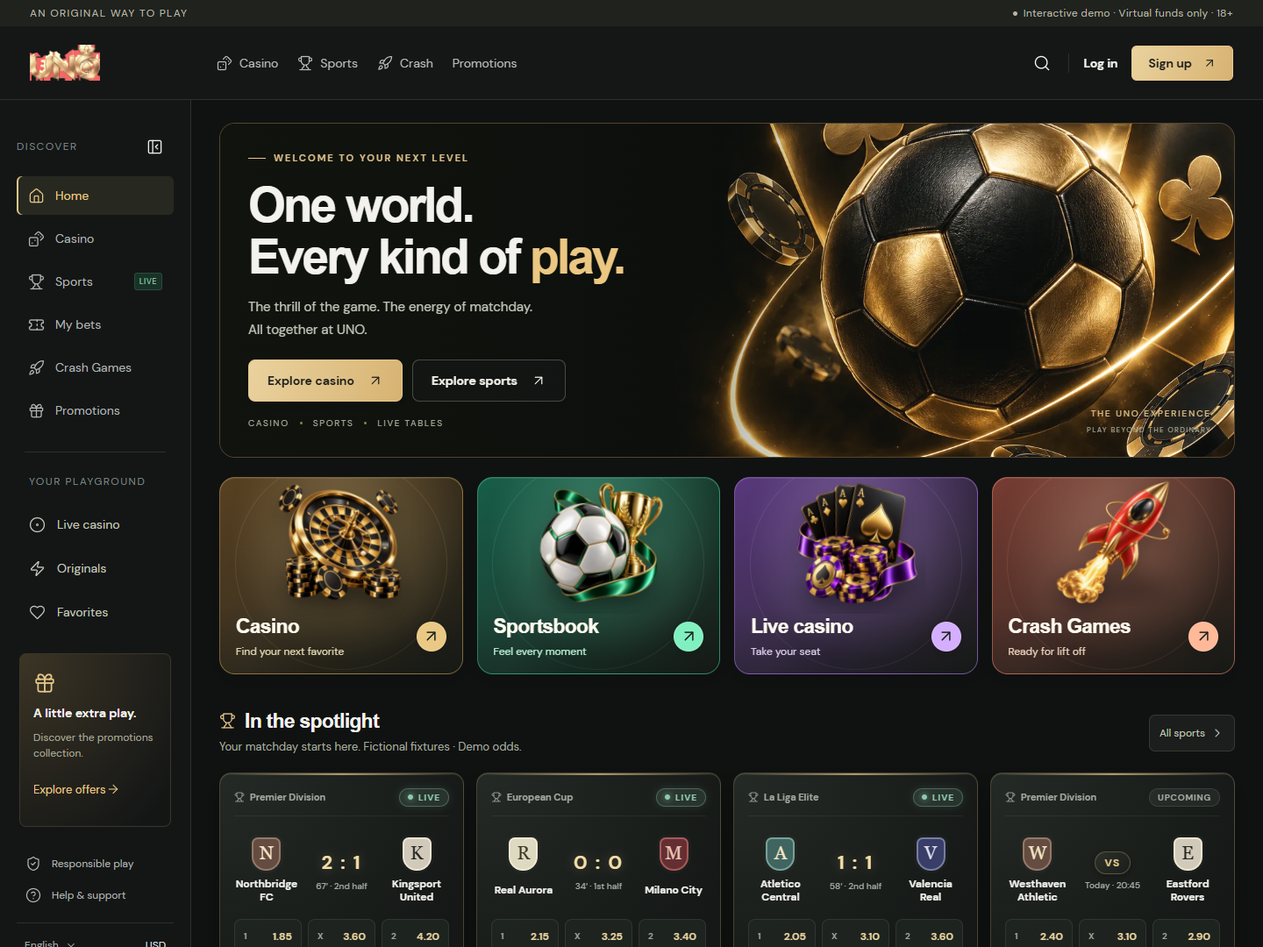
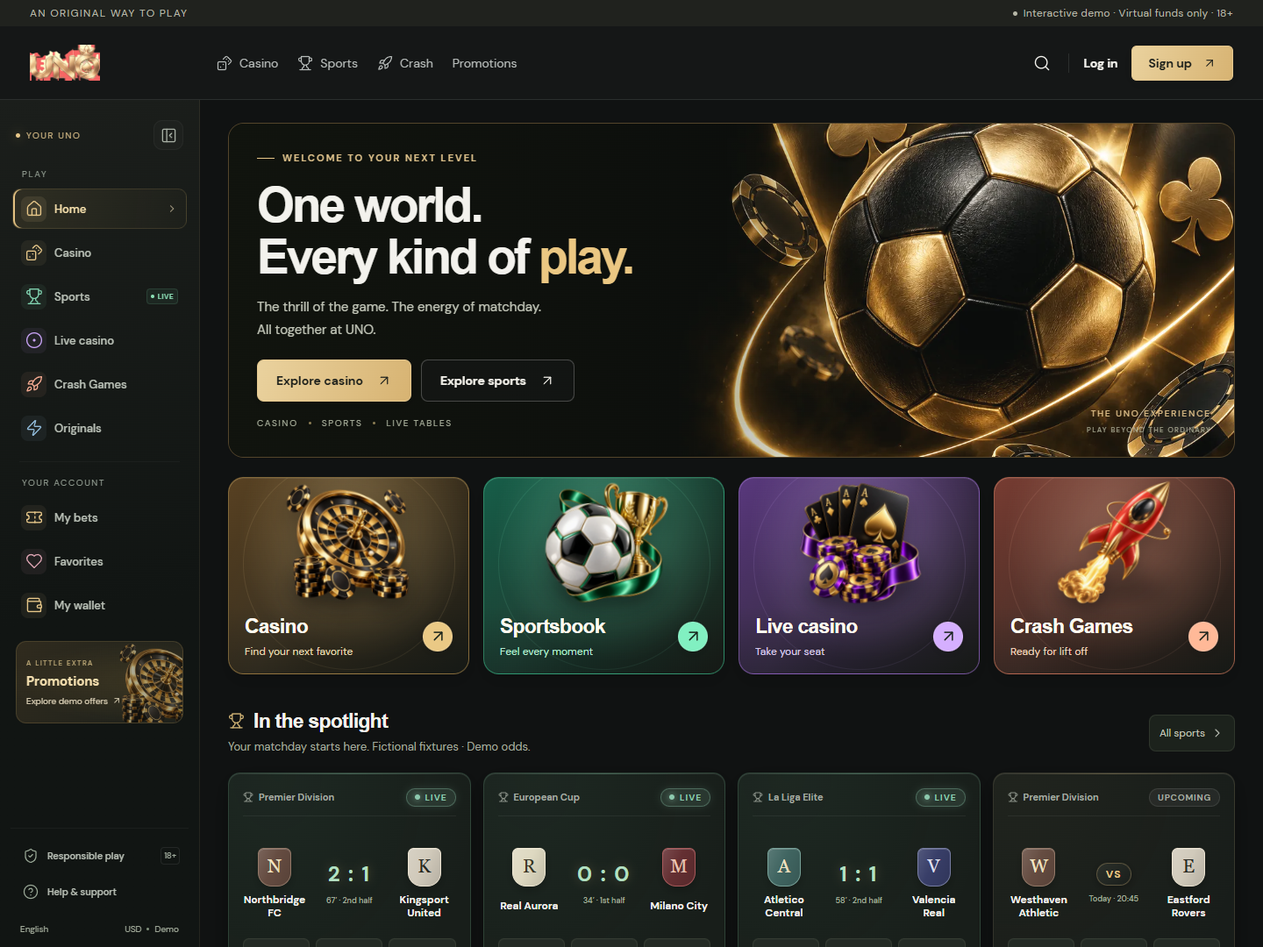
Polish sidebar navigation and curate homepage games and promotions

diff --git a/src/App.tsx b/src/App.tsx
@@ -1,4 +1,5 @@
 import { useEffect, useRef, useState, type ReactNode } from 'react';
+import { Sidebar, HomePromotions } from './Sidebar';
 import { HeroExperience, CategoryEntrances } from './HomeExperience';
 import { CrashCollection, Promotions, DemoAccount, DemoDeposit, crashGames } from './PlatformExtras';
 import { NavLink, Link, Route, Routes, useLocation, useNavigate } from 'react-router-dom';
@@ -32,22 +33,23 @@ export default function App(){
  useEffect(()=>{
  if(!menu)return;
  const previous=document.body.style.overflow;document.body.style.overflow='hidden';
+ const positionMenu=()=>document.documentElement.style.setProperty('--menu-top',`${document.querySelector('.topbar')?.getBoundingClientRect().bottom||72}px`);positionMenu();window.addEventListener('resize',positionMenu);
  const trigger=document.querySelector<HTMLButtonElement>('.mobile-menu');
  const items=()=>[trigger,...document.querySelectorAll<HTMLElement>('#uno-sidebar a, #uno-sidebar button')].filter((e):e is HTMLElement=>!!e&&e.getClientRects().length>0);
  items()[1]?.focus();
  const close=(e:KeyboardEvent)=>{if(e.key==='Escape'){setMenu(false);trigger?.focus();}if(e.key==='Tab'){const list=items();const i=list.indexOf(document.activeElement as HTMLElement);if(e.shiftKey&&i<=0){e.preventDefault();list.at(-1)?.focus();}else if(!e.shiftKey&&(i===list.length-1||i<0)){e.preventDefault();list[0]?.focus();}}};
- window.addEventListener('keydown',close);return()=>{document.body.style.overflow=previous;window.removeEventListener('keydown',close);if(document.activeElement?.closest('#uno-sidebar'))trigger?.focus();};
+ window.addEventListener('keydown',close);return()=>{document.body.style.overflow=previous;window.removeEventListener('resize',positionMenu);window.removeEventListener('keydown',close);if(document.activeElement?.closest('#uno-sidebar'))trigger?.focus();};
  },[menu]);
  const cardProps={favorite,openGame,favorites:state.favorites};
  return <><a className="skip-link" href="#main-content">Skip to content</a><div className="demo-strip"><span>AN ORIGINAL WAY TO PLAY</span><span><span className="tiny-dot"/> Interactive demo · Virtual funds only · 18+</span></div>
  <header className="topbar"><div className="brand-area" style={{display:'flex',alignItems:'center',justifyContent:'center'}}><button className="icon-button mobile-menu" aria-label={menu?"Close menu":"Open menu"} aria-expanded={menu} aria-controls="uno-sidebar" onClick={()=>setMenu(!menu)}><Menu/></button><Link to="/" aria-label="Home" style={{display:'flex',alignItems:'center',flexDirection:'row',justifyContent:'space-around'}}><img src="/uno-logo.webp" alt="UNO" style={{height:'46px',width:'auto',objectFit:'contain',mixBlendMode:'screen'}}/></Link></div><nav className="top-nav" aria-label="Primary"><NavLink to="/casino"><Dices size={18}/> Casino</NavLink><NavLink to="/sports"><Trophy size={18}/> Sports</NavLink><NavLink to="/crash"><Rocket size={18}/> Crash</NavLink><NavLink to="/promotions">Promotions</NavLink></nav><div className="top-actions"><button className="icon-button" aria-label="Search games and matches" onClick={()=>setSearchOpen(true)}><Search size={20}/></button><span className="header-divider"/>{loggedIn?<><button className="header-wallet" aria-label={`Open demo wallet, balance ${money(state.balance)}`} onClick={()=>setAccount(true)}><span className="coin-icon">₮</span><span><small>DEMO USD</small><strong>{money(state.balance)}</strong></span><ChevronDown size={14}/></button><button className="gold-button header-deposit" onClick={()=>setDeposit(true)}><ArrowDownLeft size={17}/> Deposit</button><button className="avatar header-avatar" aria-label="Open demo account" onClick={()=>setAccount(true)}>U</button></>:<><button className="login" onClick={()=>setAccount(true)}>Log in</button><button className="gold-button signup" onClick={()=>setAccount(true)}>Sign up <ArrowUpRight size={16}/></button></>}</div></header>
- {menu&&<button className="menu-scrim" aria-label="Close navigation" onClick={()=>setMenu(false)}/>}<div className={`app-shell ${collapsed?'sidebar-collapsed':''}`}><aside id="uno-sidebar" className={`sidebar ${menu?'menu-open':''}`}><div className="sidebar-heading"><span className="sidebar-label">DISCOVER</span><button className="icon-button sidebar-toggle" aria-label={collapsed?'Expand sidebar':'Collapse sidebar'} aria-expanded={!collapsed} aria-controls="sidebar-links" onClick={()=>setCollapsed(!collapsed)}>{collapsed?<PanelLeftOpen size={19}/>:<PanelLeftClose size={19}/>}</button></div><nav id="sidebar-links" aria-label="Sidebar">{[...navItems,{to:'/crash',label:'Crash Games',icon:Rocket},{to:'/promotions',label:'Promotions',icon:Gift}].map(({to,label,icon:Icon})=><NavLink key={to} to={to} end title={label}><Icon size={19}/><span className="nav-label">{label}</span>{to==='/sports'&&<span className="live-pill">LIVE</span>}{to==='/bets'&&state.bets.length>0&&<span className="count">{state.bets.length}</span>}</NavLink>)}</nav><div className="sidebar-separator"/><div className="sidebar-label">YOUR PLAYGROUND</div><Link className="sidebar-extra" title="Live casino" to="/casino?category=Live%20casino"><CircleDot size={19}/><span className="nav-label">Live casino</span></Link><Link className="sidebar-extra" title="Originals" to="/casino?category=Originals"><Zap size={19}/><span className="nav-label">Originals</span></Link><Link className="sidebar-extra" title="Favorites" to="/casino?favorites=true"><Heart size={19}/><span className="nav-label">Favorites</span>{state.favorites.length>0&&<span className="count">{state.favorites.length}</span>}</Link><div className="sidebar-promo"><Gift size={26}/><strong>A little extra play.</strong><p>Discover the promotions collection.</p><Link to="/promotions">Explore offers <ArrowRight size={16}/></Link></div><div className="sidebar-bottom"><button title="Responsible play" onClick={()=>setInfo('responsible')}><ShieldCheck size={18}/><span className="nav-label">Responsible play</span></button><button title="Help and support" onClick={()=>setInfo('help')}><CircleHelp size={18}/><span className="nav-label">Help & support</span></button><div className="locale">English <ChevronDown size={14}/><span>USD</span></div></div></aside>
+ {menu&&<button className="menu-scrim" aria-label="Close navigation" onClick={()=>setMenu(false)}/>}<div className={`app-shell ${collapsed?'sidebar-collapsed':''}`}><Sidebar collapsed={collapsed} menu={menu} toggle={()=>setCollapsed(!collapsed)} bets={state.bets.length} favorites={state.favorites.length} account={()=>setAccount(true)} info={setInfo}/>
  <main id="main-content"><Routes>
  <Route path="/" element={<><HeroExperience/><CategoryEntrances/><SectionHeading icon={<Trophy/>} title="In the spotlight" subtitle="Your matchday starts here. Fictional fixtures · Demo odds." link="/sports" linkText="All sports"/><div className="match-grid spotlight-grid restored-matches">{fixtures.slice(0,4).map(f=><MatchCard key={f.id} fixture={f} selections={selections} choose={choose} isSpotlight/>)}</div>
- <SectionHeading icon={<Flame/>} title="Popular right now" subtitle="A new favorite is one click away." link="/casino" linkText="All games"/><div className="game-grid home-games">{games.slice(0,16).map(g=><GameCard key={g.id} game={g} {...cardProps}/>)}</div>
- <SectionHeading icon={<CircleDot/>} title="Live casino" subtitle="Explore the live table collection. Demo previews only." link="/casino?category=Live%20casino" linkText="All live games"/><div className="game-grid">{liveGames.slice(0,16).map(g=><GameCard key={g.id} game={g} {...cardProps}/>)}</div>
+ <section className="lobby-collection"><SectionHeading icon={<Flame/>} title="Popular right now" subtitle="A new favorite is one click away." link="/casino" linkText="All games"/><div className="game-grid home-collection">{games.slice(0,8).map(g=><GameCard key={g.id} game={g} {...cardProps}/>)}</div></section><HomePromotions/>
+ <section className="lobby-collection"><SectionHeading icon={<CircleDot/>} title="Live casino" subtitle="Explore the live table collection. Demo previews only." link="/casino?category=Live%20casino" linkText="All live games"/><div className="game-grid home-collection">{liveGames.slice(0,8).map(g=><GameCard key={g.id} game={g} {...cardProps}/>)}</div></section>
  <SectionHeading icon={<Rocket/>} title="Crash Games" subtitle="Discover the next chapter of play. Demo previews only." link="/crash" linkText="All Crash Games"/><CrashCollection {...cardProps} compact/><LeaderboardTable/>
- <div className="lower-grid"><section className="live-feature"><div><span className="eyebrow">THE LIVE EXPERIENCE</span><h2>Your table.<br/>Your moment.</h2><p>Discover our live casino collection.</p><Link className="outline-button" to="/casino?category=Live%20casino">Take a look <ArrowUpRight size={16}/></Link></div><div className="roulette-art"/></section><section className="offer-feature" id="promotions"><Gift size={28}/><span className="eyebrow">A WARM WELCOME · DEMO OFFER</span><h2>Make your first<br/>moment golden.</h2><p>A little extra for your first chapter.</p><Link className="text-link" to="/promotions">All promotions <ArrowRight size={16}/></Link></section></div></>}/>
+</>}/>
  <Route path="/promotions" element={<Promotions/>}/><Route path="/crash" element={<CrashCollection {...cardProps}/>}/>
  <Route path="/casino" element={<Casino {...cardProps}/>}/>
  <Route path="/sports" element={<Sports selections={selections} choose={choose} slip={<BetSlip selections={selections} remove={id=>setSelections(s=>s.filter(x=>x.fixtureId!==id))} place={place} balance={state.balance}/>}/>}/>
@@ -150,7 +152,7 @@ function LeaderboardTable(){
 function SectionHeading({icon,title,subtitle,link,linkText}:{icon:ReactNode;title:string;subtitle:string;link:string;linkText:string}){return <div className="section-heading"><div><h2>{icon}{title}</h2><p>{subtitle}</p></div><Link to={link}>{linkText}<ChevronRight size={16}/></Link></div>}
 function Empty({title,text,action}:{title:string;text:string;action?:ReactNode}){return <div className="empty"><Search size={32}/><h2>{title}</h2><p>{text}</p>{action}</div>}
 function GameCard({game:g,favorites,favorite,openGame}:{game:Game;favorites:string[];favorite:(id:string)=>void;openGame:(g:Game)=>void}){return <article className="game-card"><button className="game-art" aria-label={`Preview ${g.name}`} onClick={()=>openGame(g)}><span className={`game-img${g.image?'':` tile-${g.tile}`}`} style={g.image?{backgroundImage:`url('${g.image}')`}:undefined}/>{g.tag&&<span className={`game-tag tag-${g.tag.toLowerCase()}`}>{g.tag==='HOT'&&<Flame size={11}/>} {g.tag}</span>}<span className="play-overlay"><span className="hover-title">{g.name}</span><span className="play-btn-circle"><Play size={18} fill="currentColor"/></span><span className="hover-provider">{g.provider}</span></span></button><button className={`favorite ${favorites.includes(g.id)?'is-favorite':''}`} aria-label={`${favorites.includes(g.id)?'Remove':'Add'} ${g.name} ${favorites.includes(g.id)?'from':'to'} favorites`} aria-pressed={favorites.includes(g.id)} onClick={()=>favorite(g.id)}><Heart size={15} fill={favorites.includes(g.id)?'currentColor':'none'}/></button><div className="game-meta"><h3>{g.name}</h3><span>{g.provider}</span></div></article>}
-function MatchCard({fixture:f,selections,choose,isSpotlight=false}:{fixture:Fixture;selections:Selection[];choose:(f:Fixture,i:number)=>void;isSpotlight?:boolean}){return <article className={`match-card ${isSpotlight?'spotlight-card':''}`}><div className="match-top"><span className="league-label"><Trophy size={12}/>{f.league}</span><span className={f.live?'live-text live-pill-badge':'muted upcoming-pill-badge'}>{f.live&&<span className="tiny-dot pulsing"/>}{f.live?'LIVE':'UPCOMING'}</span></div><div className="teams"><div><span className={`team-badge badge-${f.id}`}>{f.homeCode.slice(0,1)}</span><span className="team-name">{f.home}</span></div><div className="score">{isSpotlight&&f.live?<strong className="spotlight-score">{f.score}</strong>:isSpotlight&&!f.live?<span className="vs-badge">VS</span>:<strong>{f.score||'VS'}</strong>}<small>{f.time}</small></div><div><span className={`team-badge away badge-${f.id}`}>{f.awayCode.slice(0,1)}</span><span className="team-name">{f.away}</span></div></div><div className="odds-row">{f.odds.map((o,i)=>{const outcome=i===0?f.home:i===f.odds.length-1?f.away:'Draw';const selected=selections.some(s=>s.fixtureId===f.id&&s.outcome===outcome);return <button key={i} className={selected?'selected':''} aria-label={`${f.home} versus ${f.away}: ${outcome} at ${o.toFixed(2)}`} aria-pressed={selected} onClick={()=>choose(f,i)}><span>{i===0?'1':i===f.odds.length-1?'2':'X'}</span><strong>{o.toFixed(2)}</strong></button>;})}</div><span className="match-demo">Fictional fixture · Demo odds</span></article>}
+function MatchCard({fixture:f,selections,choose,isSpotlight=false}:{fixture:Fixture;selections:Selection[];choose:(f:Fixture,i:number)=>void;isSpotlight?:boolean}){return <article className={`match-card ${isSpotlight?'spotlight-card':''} ${f.live?'is-live':'is-upcoming'}`}><div className="match-top"><span className="league-label"><Trophy size={12}/>{f.league}</span><span className={f.live?'live-text live-pill-badge':'muted upcoming-pill-badge'}>{f.live&&<span className="tiny-dot pulsing"/>}{f.live?'LIVE':'UPCOMING'}</span></div><div className="teams"><div><span className={`team-badge badge-${f.id}`}>{f.homeCode.slice(0,1)}</span><span className="team-name">{f.home}</span></div><div className="score">{isSpotlight&&f.live?<strong className="spotlight-score">{f.score}</strong>:isSpotlight&&!f.live?<span className="vs-badge">VS</span>:<strong>{f.score||'VS'}</strong>}<small>{f.time}</small></div><div><span className={`team-badge away badge-${f.id}`}>{f.awayCode.slice(0,1)}</span><span className="team-name">{f.away}</span></div></div><div className="odds-row">{f.odds.map((o,i)=>{const outcome=i===0?f.home:i===f.odds.length-1?f.away:'Draw';const selected=selections.some(s=>s.fixtureId===f.id&&s.outcome===outcome);return <button key={i} className={selected?'selected':''} aria-label={`${f.home} versus ${f.away}: ${outcome} at ${o.toFixed(2)}`} aria-pressed={selected} onClick={()=>choose(f,i)}><span>{i===0?'1':i===f.odds.length-1?'2':'X'}</span><strong>{o.toFixed(2)}</strong></button>;})}</div><span className="match-demo">Fictional fixture · Demo odds</span></article>}
 function Casino(props:{favorites:string[];favorite:(id:string)=>void;openGame:(g:Game)=>void}){const location=useLocation();const params=new URLSearchParams(location.search);const [category,setCategory]=useState(params.get('category')||'All games');const [onlyFavorites,setOnlyFavorites]=useState(params.get('favorites')==='true');const [provider,setProvider]=useState('All providers');const [query,setQuery]=useState('');useEffect(()=>{setCategory(new URLSearchParams(location.search).get('category')||'All games');setOnlyFavorites(new URLSearchParams(location.search).get('favorites')==='true');},[location.search]);const visible=[...games,...liveGames,...crashGames].filter(g=>(category==='All games'||g.category===category)&&(provider==='All providers'||g.provider===provider)&&(!onlyFavorites||props.favorites.includes(g.id))&&g.name.toLowerCase().includes(query.toLowerCase()));return <><PageTitle eyebrow="FIND YOUR FAVORITE" title="The casino" description="Extraordinary worlds. Endless possibilities. Explore our fictional game collection."/><div className="casino-banner"><Sparkles/><div><h2>A world beyond the ordinary.</h2><p>Original games. Unmistakably UNO.</p></div><span>DEMO COLLECTION</span></div><div className="filter-bar"><label className="search-field"><Search size={18}/><input aria-label="Search casino games" placeholder="Search games" value={query} onChange={e=>setQuery(e.target.value)}/></label><label className="select-wrap"><SlidersHorizontal size={16}/><select aria-label="Game provider" value={provider} onChange={e=>setProvider(e.target.value)}>{['All providers','UNO Studios','Orbit Games','Ember Play'].map(p=><option key={p}>{p}</option>)}</select></label></div><div className="tabs">{['All games','Slots','Live casino','Originals','Crash'].map(c=><button key={c} className={category===c?'active':''} onClick={()=>setCategory(c)}>{c}</button>)}<button className={onlyFavorites?'active':''} aria-pressed={onlyFavorites} onClick={()=>setOnlyFavorites(!onlyFavorites)}><Heart size={16}/> Favorites</button></div><div className="results-label">{visible.length} games <span>Fictional titles · Demo previews</span></div>{visible.length?<div className="game-grid catalog">{visible.map(g=><GameCard key={g.id} game={g} {...props}/>)}</div>:<Empty title="No games in this corner yet." text="Try another search or reset your filters." action={<button className="outline-button" onClick={()=>{setQuery('');setCategory('All games');setProvider('All providers');setOnlyFavorites(false);}}>Reset filters</button>}/>}</>}
 function Sports({selections,choose,slip}:{selections:Selection[];choose:(f:Fixture,i:number)=>void;slip:ReactNode}){const loc=useLocation();const p=new URLSearchParams(loc.search);const [sport,setSport]=useState(p.get('sport')||'Football');const [tab,setTab]=useState(p.get('tab')||'Live');const [league,setLeague]=useState('All leagues');const [query,setQuery]=useState(p.get('query')||'');useEffect(()=>{const p=new URLSearchParams(loc.search);setSport(p.get('sport')||'Football');setTab(p.get('tab')||'Live');setQuery(p.get('query')||'');setLeague('All leagues');},[loc.search]);const visible=fixtures.filter(f=>f.sport===sport&&f.live===(tab==='Live')&&(league==='All leagues'||f.league===league)&&`${f.home} ${f.away}`.toLowerCase().includes(query.toLowerCase()));return <><PageTitle eyebrow="EVERY MOMENT MATTERS" title="The sportsbook" description="Get closer to the game. Explore fictional fixtures with virtual funds."/><div className="sport-picker">{['Football','Basketball','Tennis'].map((s,i)=><button className={sport===s?'active':''} key={s} onClick={()=>{setSport(s);setLeague('All leagues');setQuery('');}}><span>{['⚽','🏀','🎾'][i]}</span>{s}</button>)}</div><div className="sports-layout"><div><div className="sports-toolbar"><div className="tabs"><button className={tab==='Live'?'active':''} onClick={()=>setTab('Live')}><span className="tiny-dot"/> Live</button><button className={tab==='Upcoming'?'active':''} onClick={()=>setTab('Upcoming')}>Upcoming</button></div><select aria-label="League" value={league} onChange={e=>setLeague(e.target.value)}><option>All leagues</option>{[...new Set(fixtures.filter(f=>f.sport===sport).map(f=>f.league))].map(l=><option key={l}>{l}</option>)}</select></div><label className="search-field sports-search"><Search size={18}/><input aria-label="Search teams" placeholder="Search teams" value={query} onChange={e=>setQuery(e.target.value)}/></label><div className="sports-matches">{visible.map(f=><MatchCard key={f.id} fixture={f} selections={selections} choose={choose}/>)}</div>{!visible.length&&<Empty title="No matches found." text="Try Upcoming, another sport, or clear your filters." action={<button className="outline-button" onClick={()=>{setQuery('');setLeague('All leagues');setTab(tab==='Live'?'Upcoming':'Live');}}>Show {tab==='Live'?'upcoming':'live'} matches</button>}/>}</div><aside className="desktop-slip">{slip}</aside></div></>}
 function BetSlip({selections,remove,place,balance}:{selections:Selection[];remove:(id:string)=>void;place:(stake:number,mode:'single'|'accumulator')=>void;balance:number}){const [mode,setMode]=useState<'single'|'accumulator'>('single');const [stake,setStake]=useState('10');const [error,setError]=useState('');const totals=quote(selections,Number(stake),mode);return <section className="bet-slip"><div className="slip-heading"><h2><Ticket size={20}/> Bet slip</h2><span>{selections.length}</span></div>{!selections.length?<div className="slip-empty"><Ticket size={34}/><h3>Your next move.</h3><p>Select odds on a match to start your demo bet.</p><span>Virtual funds. Real possibilities.</span></div>:<><div className="tabs"><button className={mode==='single'?'active':''} onClick={()=>{setMode('single');setError('');}}>Singles</button><button className={mode==='accumulator'?'active':''} onClick={()=>{setMode('accumulator');setError('');}}>Accumulator</button></div>{selections.map(s=><div className="slip-selection" key={s.fixtureId}><button className="icon-button" aria-label={`Remove ${s.outcome}`} onClick={()=>remove(s.fixtureId)}><X size={15}/></button><strong>{s.outcome}<span>{s.odds.toFixed(2)}</span></strong><small>{s.match}</small><span className="muted">Match winner · Demo</span></div>)}<label className="stake-label">{mode==='single'?'Stake per selection':'Total stake'}<div className="stake-input"><span>USD</span><input aria-label="Stake" type="number" min="0.01" step="0.01" value={stake} onChange={e=>{setStake(e.target.value);setError('');}}/></div></label><div className="stake-presets">{[10,25,50,100].map(n=><button key={n} onClick={()=>{setStake(String(n));setError('');}}>${n}</button>)}</div><div className="slip-total"><span>Total stake</span><strong>{money(Number.isFinite(totals.cost)?totals.cost:0)}</strong></div><div className="slip-total potential"><span>Potential return</span><strong>{money(Number.isFinite(totals.potential)?totals.potential:0)}</strong></div>{error&&<p className="form-error" role="alert">{error}</p>}<button className="gold-button full" onClick={()=>{try{place(Number(stake),mode);setError('');}catch(e){setError((e as Error).message);}}}>Place demo bet <ArrowRight size={16}/></button><small className="muted">Demo balance: {money(balance)}</small></>}<div className="slip-disclaimer"><ShieldCheck size={15}/> Virtual funds only · No real wagering</div></section>}

diff --git a/src/polish.css b/src/polish.css
@@ -1,0 +1,128 @@
+/* Navigation and content polish; compact hero and category dimensions are preserved. */
+.app-shell{transition:grid-template-columns .26s cubic-bezier(.2,.8,.2,1)}
+.polished-sidebar{padding:18px 12px 14px;gap:0;min-height:0;height:calc(100dvh - 114px);background:linear-gradient(170deg,#1b1e1b,#111513 60%);border-right:1px solid #dbc28b18;z-index:36}
+.polished-sidebar .sidebar-heading{margin:0 0 8px;padding:0 6px;flex-shrink:0}
+.polished-sidebar .sidebar-heading .sidebar-label{font-size:10px;letter-spacing:1.6px;color:#d1b783;display:flex;align-items:center;gap:7px;white-space:nowrap}
+.sidebar-brand-dot{width:5px;height:5px;background:#e7c789;border-radius:50%;box-shadow:0 0 12px #e7c76688}
+.polished-sidebar .sidebar-toggle{color:#a8b0a5;background:#ffffff05;border:1px solid #ffffff0a;border-radius:10px;width:34px;height:34px}
+.polished-sidebar .sidebar-toggle:hover{color:#f1d392;background:#d3b16a10}
+.sidebar-scroll{min-height:0;overflow-y:auto;overflow-x:hidden;scrollbar-width:thin;scrollbar-color:#5c5b4344 transparent;flex:1;padding:0 2px 12px}
+.sidebar-group-label{font-size:10px;letter-spacing:1.6px;color:#949f93;padding:8px 11px 10px}
+.account-group{border-top:1px solid #ffffff09;margin:15px 8px 0;padding:17px 3px 10px}
+.polished-sidebar nav{display:flex;flex-direction:column;gap:4px}
+.polished-sidebar .sidebar-item{--nav-tone:#e7c789;display:flex;align-items:center;gap:9px;min-height:46px;width:100%;padding:6px 9px;border:1px solid transparent;border-radius:10px;color:#b9c0b6;text-align:left;font-size:13px;font-weight:500;position:relative;white-space:nowrap;background:none;transition:background .18s,border-color .18s,color .18s}
+.polished-sidebar .tone-green{--nav-tone:#80d2af}.polished-sidebar .tone-violet{--nav-tone:#c6a1f3}.polished-sidebar .tone-coral{--nav-tone:#f4aa91}.polished-sidebar .tone-blue{--nav-tone:#92bddc}.polished-sidebar .tone-rose{--nav-tone:#dfa6b4}
+.sidebar-icon{display:grid;place-items:center;width:29px;height:29px;flex-shrink:0;border-radius:8px;color:var(--nav-tone);background:color-mix(in srgb,var(--nav-tone) 7%,transparent);transition:background .18s,transform .18s}
+.polished-sidebar .sidebar-item.active{color:#f5dfac;background:linear-gradient(95deg,#bba05a22,#bba05a08);border-color:#c2a3622b;box-shadow:inset 2px 0 0 #e3c182}
+.polished-sidebar .sidebar-item.active .sidebar-icon{background:#e7c7891b}
+.polished-sidebar .sidebar-item:hover{background:#ffffff06;border-color:#ffffff0b;color:#f1ebdd}
+.polished-sidebar .sidebar-item:focus-visible{outline:2px solid #e7c789;outline-offset:-2px}
+.nav-label{min-width:0}
+.nav-chevron{margin-left:auto;opacity:0;flex-shrink:0;color:#d6c8a8;transition:opacity .18s,translate .18s}
+.sidebar-item.active .nav-chevron,.sidebar-item:hover .nav-chevron,.sidebar-item:focus-visible .nav-chevron{opacity:.75}
+.side-live{display:flex;align-items:center;gap:4px;font-size:8px;letter-spacing:.5px;margin-left:auto;color:#8cdfb5;background:#75d3a712;border:1px solid #75d3a725;border-radius:4px;padding:3px 4px}
+.side-live i{display:block;width:4px;height:4px;border-radius:50%;background:#8cdfb5}
+.side-live+.nav-chevron,.side-count+.nav-chevron{display:none}
+.side-count{margin-left:auto;padding:3px 6px;border-radius:5px;font-size:10px;background:#e7c78915;color:#ebcf95}
+.sidebar-offer{display:flex;align-items:center;min-height:94px;position:relative;isolation:isolate;overflow:hidden;padding:15px 11px;margin:18px 4px 4px;background:radial-gradient(ellipse at 100% 50%,#b08b3e33,transparent 75%),linear-gradient(130deg,#302b1e,#1c201b);border:1px solid #d3ad652f;border-radius:12px}
+.sidebar-offer>img{position:absolute;right:-27px;bottom:-10px;width:102px;height:102px;object-fit:contain;opacity:.6;z-index:-1;transition:transform .35s}
+.sidebar-offer .nav-label{display:flex;flex-direction:column;gap:6px;white-space:nowrap}
+.sidebar-offer small{font-size:8px;letter-spacing:1.4px;color:#c5b07c}
+.sidebar-offer strong{font-size:15px;color:#f4dfaf;font-weight:650}
+.sidebar-offer .nav-label>span{font-size:10px;color:#d9ceb4;display:flex;align-items:center;gap:4px}
+.sidebar-offer.active{border-color:#e7c78988}
+.sidebar-offer:hover img{transform:rotate(6deg) scale(1.04)}
+.offer-rail-icon{display:none}
+.sidebar-utilities{padding:10px 2px 0;border-top:1px solid #ffffff0b;margin-top:auto;flex-shrink:0}
+.sidebar-utilities .sidebar-item{font-size:11px;min-height:40px;gap:7px;padding:5px 7px}
+.sidebar-utilities .sidebar-icon{background:none;color:#9aa997;width:25px}
+.side-age{font-size:9px;margin-left:auto;padding:3px;border:1px solid #ffffff14;border-radius:4px;color:#9ea99b}
+.sidebar-locale{display:flex;justify-content:space-between;gap:10px;font-size:10px;color:#a7b09f;padding:16px 9px 0}
+.sidebar-locale>span:last-child{display:flex;gap:6px;align-items:center}.sidebar-locale i{width:3px;height:3px;background:#7d8d79;border-radius:50%}
+.sidebar-tooltip{position:fixed;left:88px;z-index:65;pointer-events:none;padding:12px 16px;border-radius:9px;border:1px solid #cbb07855;box-shadow:0 8px 24px #0008;background:#252a22;color:#f5e5c0;font-size:13px;white-space:nowrap}
+.sidebar-tooltip:before{content:'';position:absolute;left:-5px;top:16px;width:8px;height:8px;transform:rotate(45deg);background:#252a22;border-left:1px solid #cbb07855;border-bottom:1px solid #cbb07855}
+.restored-matches .spotlight-card{border-color:#c7b58328;background:radial-gradient(ellipse at 10% 0%,#c7a6650c,transparent 80%),#181d1a;box-shadow:inset 0 1px 0 #fff08,0 7px 20px #0002;transition:border-color .2s,box-shadow .2s,transform .2s}
+.restored-matches .spotlight-card:before{background:linear-gradient(90deg,transparent,#cbb07175,transparent);height:1px}
+.restored-matches .is-live{border-color:#80c7a136;background:radial-gradient(ellipse at 20% 0%,#69bc9510,transparent 75%),#181e1a}
+.restored-matches .is-live:before{background:linear-gradient(90deg,transparent,#81c8a775,transparent)}
+.restored-matches .team-badge{width:38px;height:44px;border-width:1px;box-shadow:inset 0 1px 0 #fff3,0 5px 10px #0003;position:relative;overflow:hidden}
+.restored-matches .team-badge:after{content:'';position:absolute;inset:0;background:linear-gradient(115deg,#fff2,transparent 45%,#0002);pointer-events:none}
+.restored-matches .teams{padding:24px 0 20px;gap:10px;align-items:start}
+.restored-matches .score{align-self:center;gap:7px}
+.restored-matches .score strong{font-size:24px;letter-spacing:2px;color:#e4eade;font-variant-numeric:tabular-nums}
+.restored-matches .is-live .score strong{color:#b4e0c2}
+.restored-matches .score small{font-size:9px;line-height:1.5;color:#a2af9d;white-space:normal}
+.restored-matches .team-name{font-weight:550;color:#d7dfd2;line-height:1.4;min-height:34px}
+.live-pill-badge .pulsing{animation:none!important}
+.restored-matches .odds-row button{background:#242b25;border-color:#a8b4941e;border-radius:7px;min-height:46px;padding:10px;gap:8px;box-shadow:inset 0 1px 0 #ffffff05}
+.restored-matches .odds-row button>span{color:#a7b1a0;font-size:10px}
+.restored-matches .odds-row button>strong{color:#ead39f;font-size:13px}
+.odds-row button.selected{background:linear-gradient(140deg,#e7cc91,#b69a61)!important;border-color:#e7c789!important;box-shadow:0 0 0 1px #f4dda62b,inset 0 1px 0 #fff5!important}
+.odds-row button.selected>span,.odds-row button.selected>strong{color:#1d261b!important}
+.restored-matches .match-demo{border-top:1px solid #ffffff08;margin-top:12px;padding-top:9px;color:#a3b09b;font-size:10px}
+.lobby-collection{margin-top:38px}
+.lobby-collection>.section-heading{margin-top:0}
+.home-collection .game-art{aspect-ratio:1/1.25;border:1px solid #fff1}
+.home-collection{grid-template-columns:repeat(4,minmax(0,1fr))}
+@media(min-width:1201px){.home-collection{grid-template-columns:repeat(6,minmax(0,1fr))}.home-collection .game-card:nth-child(n+7){display:none}}
+@media(min-width:1600px){.home-collection{grid-template-columns:repeat(8,minmax(0,1fr))}.home-collection .game-card:nth-child(n+7){display:block}}
+.home-collection .game-meta h3{display:-webkit-box;-webkit-line-clamp:2;-webkit-box-orient:vertical;overflow:hidden;min-height:2.8em;line-height:1.4}
+.home-collection .game-meta{padding:10px 1px 0}
+.section-heading h2>svg{color:#d5b777;stroke-width:1.7}
+.section-heading>a{background:#1c221c;border-color:#b1c19920;border-radius:8px}
+.section-heading>a:hover{background:#d1b77512;border-color:#d1b77566}
+.home-promotions{margin-top:36px}
+.home-promotions>.section-heading{margin-top:0}
+.home-promo-grid{display:grid;grid-template-columns:repeat(2,minmax(0,1fr));gap:18px}
+.home-promo{display:flex;position:relative;isolation:isolate;overflow:hidden;min-height:196px;border:1px solid #c9ab6840;border-radius:15px;background:radial-gradient(ellipse at 80% 10%,#dab15e30,transparent 80%),linear-gradient(120deg,#30291c,#1c2119);padding:26px 28px}
+.home-promo>div{position:relative;z-index:2;max-width:70%}
+.promo-mini-label{font-size:10px;letter-spacing:1px;line-height:1.6;color:#d0b886}
+.home-promo h3{font-size:29px;letter-spacing:-.8px;line-height:1.12;margin:13px 0 18px;color:#faeac8}
+.promo-action{display:inline-flex;align-items:center;gap:12px;min-height:32px;font-size:12px;color:#eed5a0}
+.home-promo img{position:absolute;width:48%;height:120%;right:-4%;bottom:-14%;object-fit:contain;z-index:0;filter:drop-shadow(0 10px 16px #0005);transition:transform .45s cubic-bezier(.2,.8,.2,1)}
+.promo-green{border-color:#7dc9a136;background:radial-gradient(ellipse at 85% 10%,#4dbe9030,transparent 80%),linear-gradient(120deg,#193a2d,#15241c)}
+.promo-green .promo-mini-label{color:#add5bf}.promo-green h3{color:#e5f1df}.promo-green .promo-action{color:#bde5c8}
+@media(hover:hover) and (pointer:fine){.home-promo:hover img{transform:translateY(-4px) rotate(4deg)}.home-promo:hover .promo-action svg{translate:3px -3px}.restored-matches .spotlight-card:hover{border-color:#b4c0a650;box-shadow:0 9px 20px #0003;transform:translateY(-2px)}.sidebar-item:hover .sidebar-icon{background:color-mix(in srgb,var(--nav-tone) 13%,transparent)}}
+@media(min-width:981px){
+ .app-shell{grid-template-columns:228px minmax(0,1fr)}
+ .app-shell.sidebar-collapsed{grid-template-columns:80px minmax(0,1fr)}
+ .sidebar-collapsed .polished-sidebar{padding:18px 10px 14px}
+ .sidebar-collapsed .polished-sidebar .sidebar-heading{padding:0;margin-bottom:12px}
+ .sidebar-collapsed .polished-sidebar .sidebar-label,.sidebar-collapsed .sidebar-group-label,.sidebar-collapsed .side-live,.sidebar-collapsed .side-count,.sidebar-collapsed .nav-chevron,.sidebar-collapsed .side-age,.sidebar-collapsed .sidebar-locale{display:none}
+ .sidebar-collapsed .polished-sidebar .sidebar-item{padding:6px;justify-content:center;min-height:46px}
+ .sidebar-collapsed .polished-sidebar .sidebar-item.active{border-color:#c2a3622b}
+ .sidebar-collapsed .sidebar-scroll>nav:nth-of-type(2){border-top:1px solid #ffffff10;padding-top:13px;margin-top:13px}
+ .sidebar-collapsed .sidebar-offer{padding:0;min-height:46px;margin:16px 0 0;justify-content:center;border-radius:10px}
+ .sidebar-collapsed .sidebar-offer>img{display:none}.sidebar-collapsed .offer-rail-icon{display:block;color:#e7c789}
+ .sidebar-collapsed .sidebar-utilities{padding-top:8px}
+}
+@media(min-width:981px) and (max-width:1200px){.app-shell{grid-template-columns:212px minmax(0,1fr)}.polished-sidebar{padding-left:9px;padding-right:9px}.home-promo{padding:23px}.home-promo h3{font-size:26px}.home-collection{grid-template-columns:repeat(4,minmax(0,1fr))}}
+@media(max-width:980px){.sidebar-tooltip{display:none}.polished-sidebar.menu-open{padding:18px 14px 14px;overflow:hidden;width:280px}.sidebar-scroll{overflow-y:auto}.sidebar-heading{min-height:32px}.polished-sidebar .sidebar-item{font-size:14px}.polished-sidebar .sidebar-utilities .sidebar-item{font-size:12px}.home-collection{grid-template-columns:repeat(4,minmax(0,1fr))}.sidebar-utilities .sidebar-item{min-height:44px}}
+@media(max-width:700px){
+ .app-shell{transition:none}
+ .restored-matches .teams{padding:18px 0 14px;gap:7px}
+ .restored-matches .team-badge{width:33px;height:39px}
+ .restored-matches .score strong{font-size:23px}
+ .restored-matches .score small{font-size:9px}
+ .restored-matches .team-name{font-size:11px;min-height:32px}
+ .restored-matches .odds-row button{padding:6px 3px;gap:3px}
+ .restored-matches .odds-row button>strong{font-size:12px}
+ .restored-matches .match-demo{font-size:9px}
+ .lobby-collection{margin-top:30px}
+ .home-collection{grid-template-columns:repeat(3,minmax(0,1fr))}
+ .home-collection .game-card:nth-child(n+7){display:none}
+ .home-collection .game-meta>span{font-size:10px!important}
+ .home-promotions{margin-top:30px}
+ .home-promo-grid{grid-template-columns:1fr;gap:12px}
+ .home-promo{min-height:172px;padding:20px 22px}
+ .home-promo>div{max-width:75%}.home-promo h3{font-size:27px;margin:10px 0 9px}
+ .home-promo img{width:46%;height:113%;right:-4%;bottom:-9%}
+ .promo-mini-label{font-size:9px;letter-spacing:.7px}
+ .promo-action{font-size:12px;min-height:36px}
+ .category-label{padding-left:12px;padding-right:12px;gap:6px}
+ .category-label h2{font-size:17px}
+}
+@media(prefers-reduced-motion:reduce){.app-shell,.sidebar-item,.sidebar-icon,.home-promo img,.spotlight-card,.sidebar-offer>img{transition:none!important;animation:none!important}}
+.motion-paused .app-shell,.motion-paused .sidebar-item,.motion-paused .home-promo img,.motion-paused .spotlight-card{transition:none!important}
+
+@media(max-width:980px){.sidebar.menu-open,.menu-scrim,body:has(.header-wallet) .sidebar.menu-open,body:has(.header-wallet) .menu-scrim{top:var(--menu-top,72px)}}

diff --git a/src/Sidebar.tsx b/src/Sidebar.tsx
@@ -1,0 +1,49 @@
+import { useEffect, useState, type ReactNode, type MouseEvent, type FocusEvent } from 'react';
+import { createPortal } from 'react-dom';
+import { Link, useLocation } from 'react-router-dom';
+import { ArrowUpRight, ChevronRight, CircleDot, CircleHelp, Dices, Gift, Heart, Home, PanelLeftClose, PanelLeftOpen, Rocket, ShieldCheck, Ticket, Trophy, Wallet, Zap } from 'lucide-react';
+
+type SidebarProps = {collapsed:boolean;menu:boolean;toggle:()=>void;bets:number;favorites:number;account:()=>void;info:(kind:string)=>void};
+const playLinks = [
+  {to:'/',label:'Home',icon:Home,tone:'gold'},
+  {to:'/casino',label:'Casino',icon:Dices,tone:'gold'},
+  {to:'/sports',label:'Sports',icon:Trophy,tone:'green'},
+  {to:'/casino?category=Live%20casino',label:'Live casino',icon:CircleDot,tone:'violet'},
+  {to:'/crash',label:'Crash Games',icon:Rocket,tone:'coral'},
+  {to:'/casino?category=Originals',label:'Originals',icon:Zap,tone:'blue'},
+];
+
+export function Sidebar({collapsed,menu,toggle,bets,favorites,account,info}:SidebarProps){
+  const location=useLocation();
+  const [hint,setHint]=useState<{text:string;top:number}|null>(null);
+  useEffect(()=>{setHint(null);},[collapsed,menu,location.pathname,location.search]);
+  useEffect(()=>{const dismiss=()=>setHint(null);const key=(e:KeyboardEvent)=>{if(e.key==='Escape')dismiss();};window.addEventListener('resize',dismiss);window.addEventListener('scroll',dismiss,true);window.addEventListener('keydown',key);return()=>{window.removeEventListener('resize',dismiss);window.removeEventListener('scroll',dismiss,true);window.removeEventListener('keydown',key);};},[]);
+  function show(text:string,e:MouseEvent<HTMLElement>|FocusEvent<HTMLElement>){if(collapsed&&window.matchMedia('(min-width:981px)').matches)setHint({text,top:Math.min(innerHeight-52,Math.max(8,e.currentTarget.getBoundingClientRect().top+4))});}
+  const hintEvents=(text:string)=>({onMouseEnter:(e:MouseEvent<HTMLElement>)=>show(text,e),onMouseLeave:()=>setHint(null),onFocus:(e:FocusEvent<HTMLElement>)=>show(text,e),onBlur:()=>setHint(null)});
+  function active(to:string){const target=new URL(to,window.location.origin);return location.pathname===target.pathname&&location.search===target.search;}
+  function item(to:string,label:string,icon:ReactNode,tone='gold',badge?:ReactNode){return <Link key={to} to={to} className={`sidebar-item tone-${tone} ${active(to)?'active':''}`} aria-label={label} aria-current={active(to)?'page':undefined} {...hintEvents(label)}><span className="sidebar-icon">{icon}</span><span className="nav-label">{label}</span>{badge}<ChevronRight className="nav-chevron" size={14}/></Link>;}
+  return <><aside id="uno-sidebar" className={`sidebar polished-sidebar ${menu?'menu-open':''}`}>
+    <div className="sidebar-heading"><span className="sidebar-label"><span className="sidebar-brand-dot"/> YOUR UNO</span><button className="icon-button sidebar-toggle" aria-label={collapsed?'Expand sidebar':'Collapse sidebar'} aria-expanded={!collapsed} aria-controls="sidebar-links" onClick={toggle}>{collapsed?<PanelLeftOpen size={19}/>:<PanelLeftClose size={19}/>}</button></div>
+    <div className="sidebar-scroll">
+      <div className="sidebar-group-label">PLAY</div>
+      <nav id="sidebar-links" aria-label="Sidebar">{playLinks.map(({to,label,icon:Icon,tone})=>item(to,label,<Icon size={20}/>,tone,to==='/sports'?<span className="side-live"><i/>LIVE</span>:undefined))}</nav>
+      <div className="sidebar-group-label account-group">YOUR ACCOUNT</div>
+      <nav aria-label="Your account">
+        {item('/bets','My bets',<Ticket size={20}/>,'gold',bets>0?<span className="side-count">{bets}</span>:undefined)}
+        {item('/casino?favorites=true','Favorites',<Heart size={20}/>,'rose',favorites>0?<span className="side-count">{favorites}</span>:undefined)}
+        <button className="sidebar-item tone-gold" aria-label="My wallet" onClick={account} {...hintEvents('My wallet')}><span className="sidebar-icon"><Wallet size={20}/></span><span className="nav-label">My wallet</span><ChevronRight className="nav-chevron" size={14}/></button>
+      </nav>
+      <Link to="/promotions" className={`sidebar-offer ${location.pathname==='/promotions'?'active':''}`} aria-label="Promotions" aria-current={location.pathname==='/promotions'?'page':undefined} {...hintEvents('Promotions')}><img src="/uno-tile-casino.webp" alt="" width="80" height="80"/><Gift className="offer-rail-icon" size={20}/><span className="nav-label"><small>A LITTLE EXTRA</small><strong>Promotions</strong><span>Explore demo offers <ArrowUpRight size={12}/></span></span></Link>
+    </div>
+    <div className="sidebar-utilities">
+      <button className="sidebar-item" aria-label="Responsible play" onClick={()=>info('responsible')} {...hintEvents('Responsible play')}><span className="sidebar-icon"><ShieldCheck size={18}/></span><span className="nav-label">Responsible play</span><span className="side-age">18+</span></button>
+      <button className="sidebar-item" aria-label="Help and support" onClick={()=>info('help')} {...hintEvents('Help & support')}><span className="sidebar-icon"><CircleHelp size={18}/></span><span className="nav-label">Help & support</span></button>
+      <div className="sidebar-locale"><span>English</span><span>USD <i/> Demo</span></div>
+    </div>
+  </aside>{hint&&collapsed&&createPortal(<div className="sidebar-tooltip" style={{top:hint.top}} aria-hidden="true">{hint.text}</div>,document.body)}</>;
+}
+
+export function HomePromotions(){return <section className="home-promotions" aria-labelledby="home-promotions-title"><div className="section-heading"><div><h2 id="home-promotions-title"><Gift/> A little extra play</h2><p>Two ways to discover more. Demo offers only.</p></div><Link to="/promotions">All promotions <ChevronRight size={16}/></Link></div><div className="home-promo-grid">
+  <Link to="/promotions?category=Casino&offer=welcome" className="home-promo promo-gold"><div><span className="promo-mini-label">CASINO COLLECTION · DEMO</span><h3>A golden<br/>first chapter.</h3><span className="promo-action">Explore the offer <ArrowUpRight size={17}/></span></div><img src="/uno-tile-casino.webp" alt="" width="640" height="640" loading="lazy"/></Link>
+  <Link to="/promotions?category=Sports&offer=matchday" className="home-promo promo-green"><div><span className="promo-mini-label">THE MATCHDAY EDIT · DEMO</span><h3>Your next<br/>big match.</h3><span className="promo-action">Explore the offer <ArrowUpRight size={17}/></span></div><img src="/uno-tile-sports.webp" alt="" width="640" height="640" loading="lazy"/></Link>
+  </div></section>;}

diff --git a/src/PlatformExtras.tsx b/src/PlatformExtras.tsx
@@ -1,5 +1,5 @@
 import { useState } from 'react';
-import { Link } from 'react-router-dom';
+import { Link, useSearchParams } from 'react-router-dom';
 import { ArrowDownLeft, ArrowRight, ArrowUpRight, Check, ChevronDown, Gift, Heart, LogOut, Rocket, ShieldCheck, Wallet } from 'lucide-react';
 import { money, type Game } from './data';
 
@@ -20,8 +20,10 @@ const offers = [
 ];
 
 export function Promotions(){
-  const [filter,setFilter]=useState('All promotions');
-  const [expanded,setExpanded]=useState<string|null>(null);
+  const [params]=useSearchParams();
+  const initialFilter=params.get('category')||'All promotions';
+  const [filter,setFilter]=useState(['All promotions','Casino','Sports','Live casino','Crash'].includes(initialFilter)?initialFilter:'All promotions');
+  const [expanded,setExpanded]=useState<string|null>(params.get('offer'));
   const visible=offers.filter(o=>filter==='All promotions'||o.category===filter);
   return <>
     <div className="page-title"><span className="eyebrow">THE EXTRA MOMENTS</span><h1>Promotions<span>.</span></h1><p>A little more to explore across every part of UNO.</p></div>

diff --git a/src/main.tsx b/src/main.tsx
@@ -6,4 +6,5 @@ import './styles.css';
 import './experience.css';
 import './category-tiles.css';
 import './platform-extras.css';
+import './polish.css';
 ReactDOM.createRoot(document.getElementById('root')!).render(<React.StrictMode><BrowserRouter><App /></BrowserRouter></React.StrictMode>);

diff --git a/README.md b/README.md
@@ -29,3 +29,7 @@ The desktop sidebar collapses into an icon rail; its preference is saved under `
 Promotions contains six fictional concepts with category filters and expandable details. Crash Games has a dedicated route, homepage collection, search, favorites and simulated previews. New artwork: `public/uno-tile-crash.webp`. Built-in imagegen prompt: premium sleek sculptural rocket pointing upper-right, brushed gold and coral-red enamel, dark glass cockpit, warm gold exhaust and orbit ring; centered square composition with full object in frame, true transparent background, no labels or logos. Preserved alpha and optimized to 640px WebP.
 
 Run `node tests/platform-check.mjs` for new routes at 360/390/768/1440px, sidebar persistence, login/logout, demo deposits, promotions and Crash flows. `tests/wallet.test.ts` validates money precision and invalid deposits. On Windows environments where tsx cannot read the user profile, `node --experimental-strip-types --test tests/betting.test.ts tests/wallet.test.ts` runs the same tests directly with Node 24.
+
+## Navigation and homepage polish
+
+`src/Sidebar.tsx` groups Play and account destinations, matches active routes including query filters, and supplies keyboard/hover labels for the collapsed rail. The mobile drawer follows the actual header position and traps keyboard focus. `src/polish.css` contains the sidebar, match-card, curated game-row and compact promotion treatments. Homepage offers open the corresponding category and expanded offer details. The full game catalog is unchanged. Reduced-motion and pause settings are respected. `tests/polish-check.mjs` covers the new navigation, offer routing and layout behavior.
